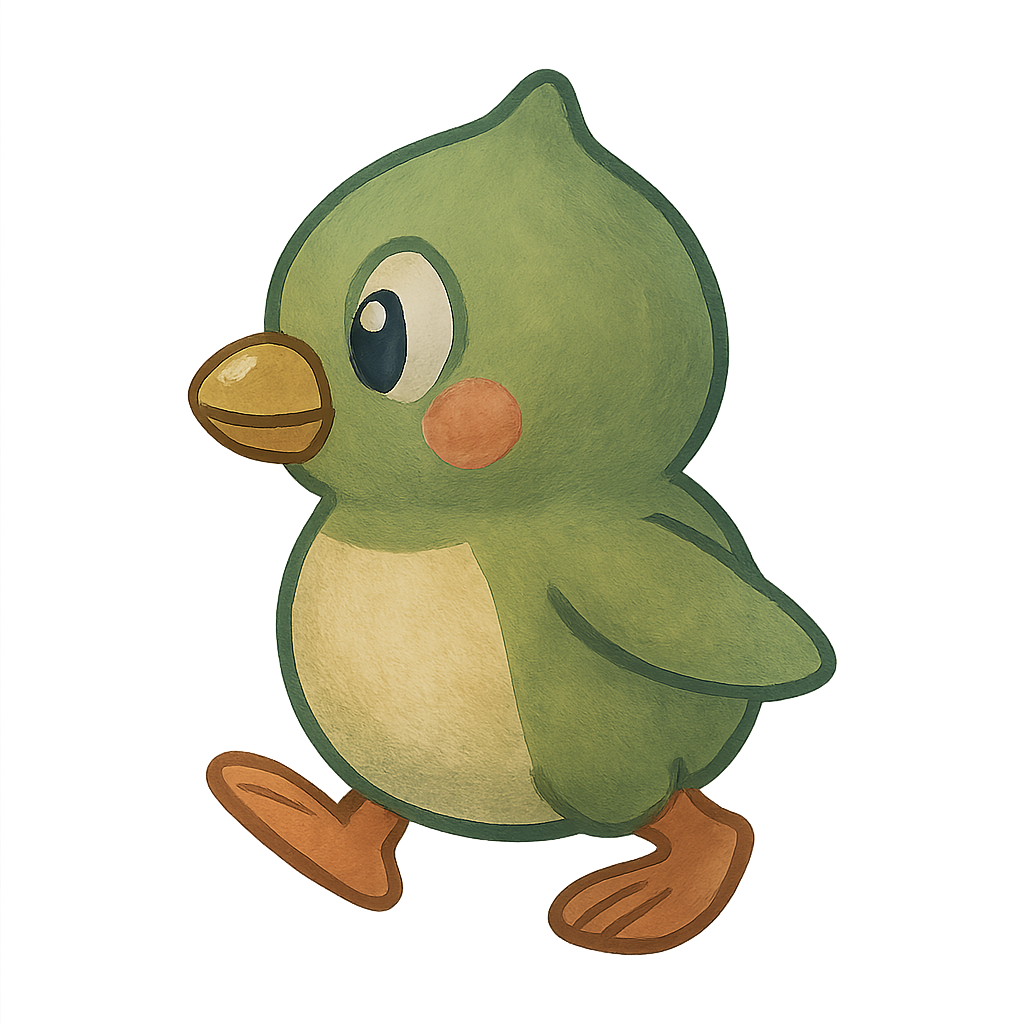
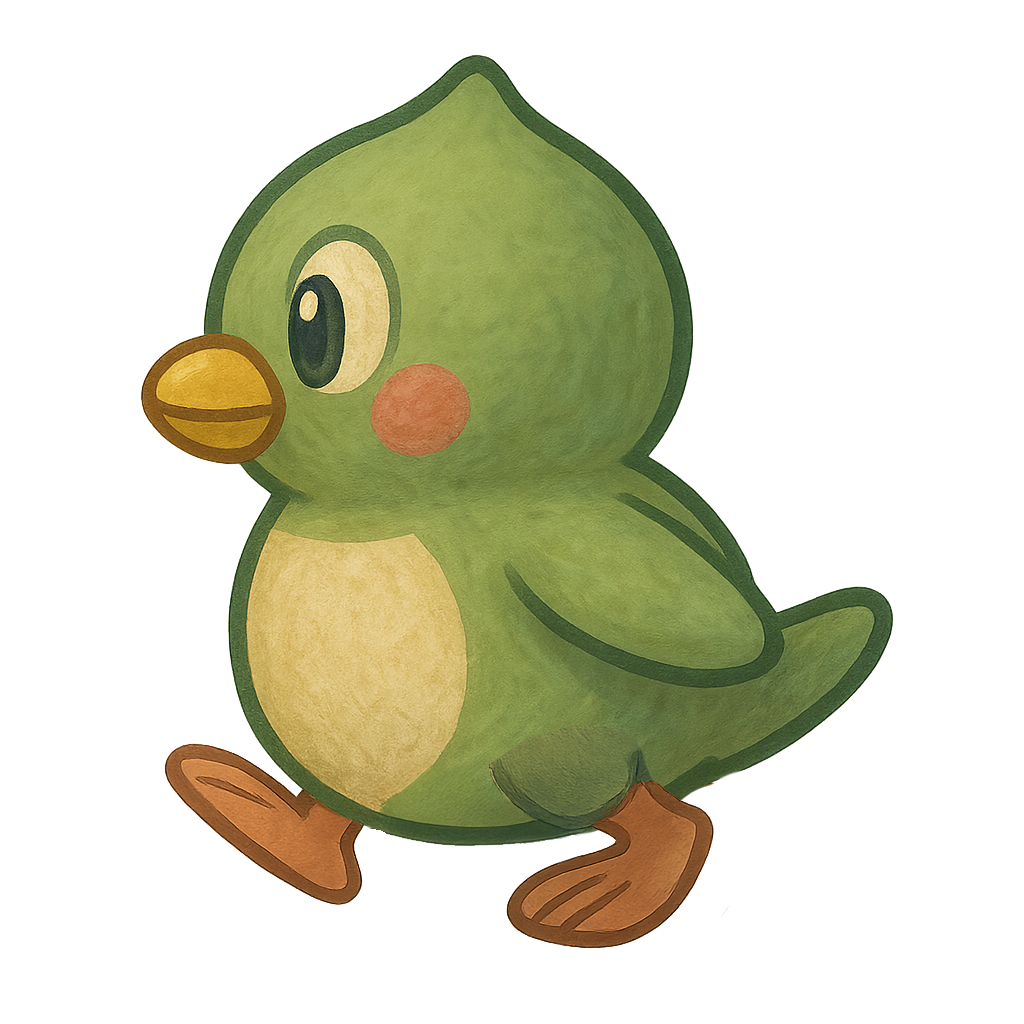
Fix walking animation to ensure proper step alternation and include image updates

Changed region(s): [[0.125, 0.0312, 0.875, 0.9375], [0.5625, 0.3125, 0.5938, 0.3438], [0.5312, 0.2812, 0.5625, 0.3125]]

diff --git a/src/pages/PetPage.tsx b/src/pages/PetPage.tsx
@@ -115,8 +115,8 @@ export default function PetPage({ pet, needInfo, onIncreaseAffection }: PetPageP
         
         // Calculate number of steps based on distance
         const distance = Math.abs(boundedPos - prevPos);
-        const stepsPerPixel = 0.2; // Reduced from 0.5 to make steps less frequent
-        const totalSteps = Math.floor(distance * stepsPerPixel);
+        const stepsPerPixel = 0.1; // Reduced to make steps less frequent but ensure at least one transition
+        const totalSteps = Math.max(2, Math.floor(distance * stepsPerPixel)); // Ensure at least 2 steps for one complete cycle
         
         // Start walking animation
         let currentStep = 0;
@@ -129,7 +129,7 @@ export default function PetPage({ pet, needInfo, onIncreaseAffection }: PetPageP
             setIsWalking(false);
             setWalkingStep(0);
           }
-        }, 300); // Increased from 200ms to 300ms for slower step transitions
+        }, 400); // Slower step transitions for more natural movement
         
         return boundedPos;
       });
